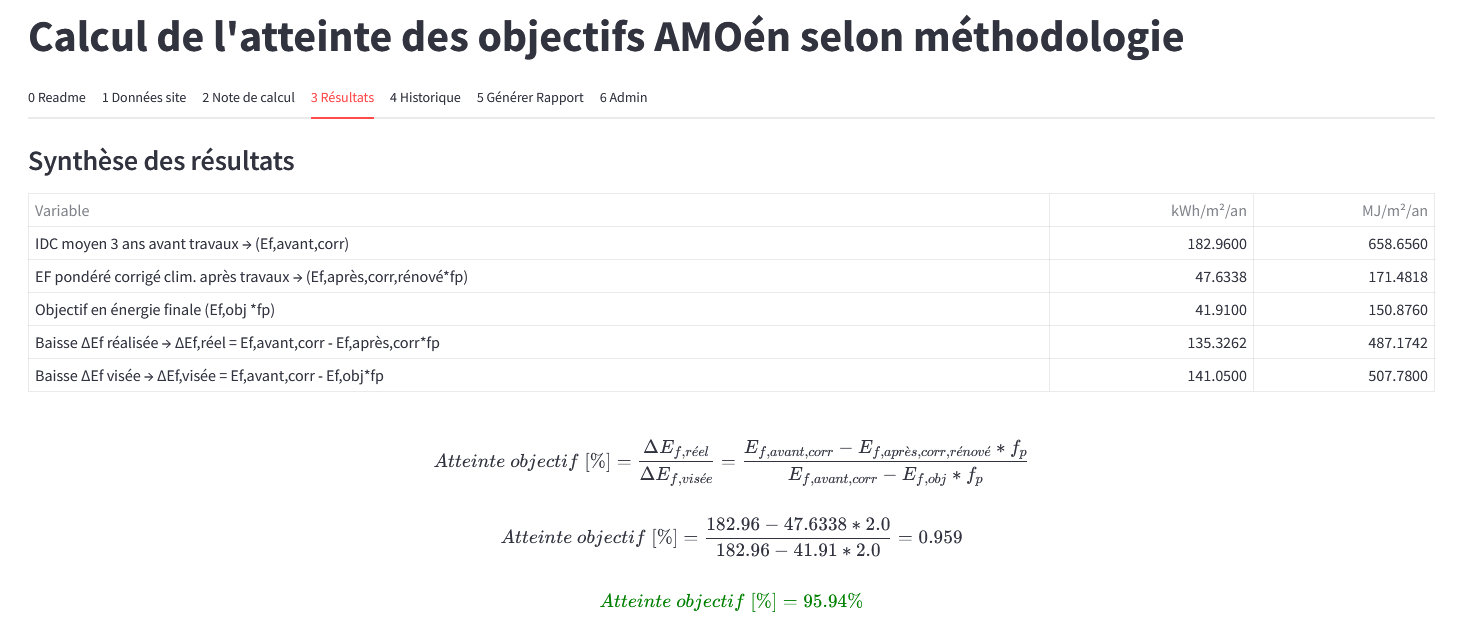
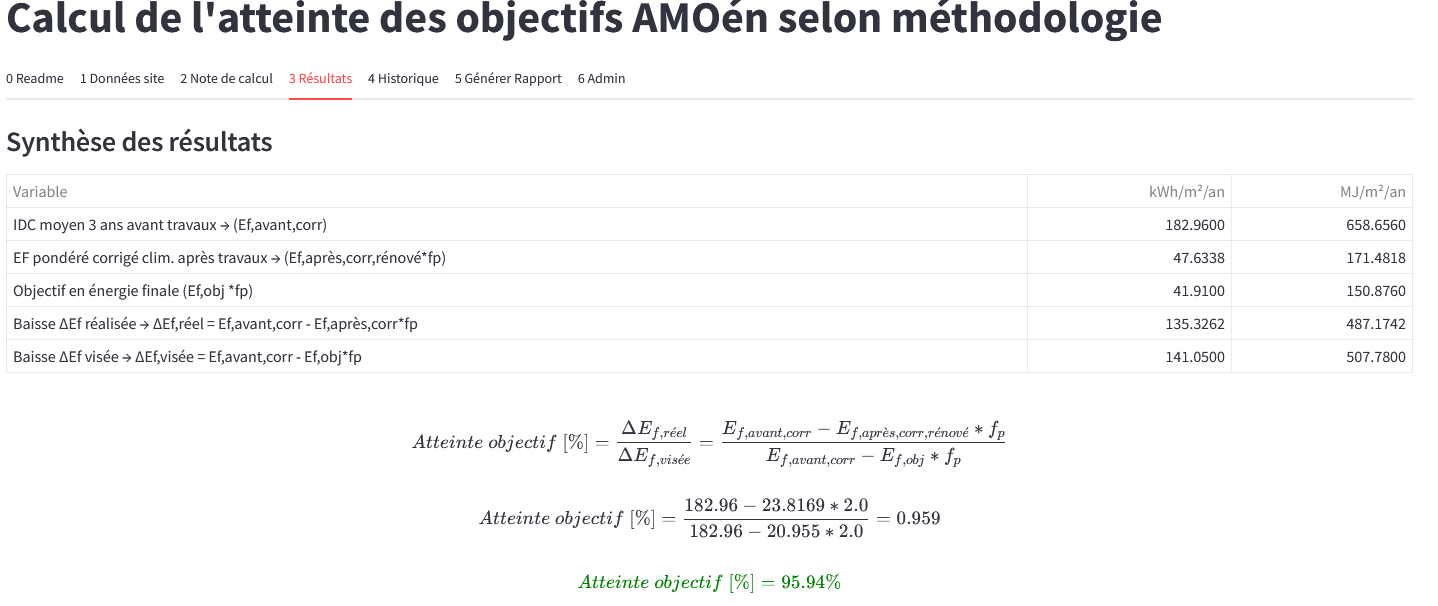
doc update

diff --git a/docs/documentation.md b/docs/documentation.md
@@ -47,25 +47,31 @@ Cet onglet contient:
 
 ### 1 Données du site
 
-Cet onglet contient les informations nécessaires au calcul de l'atteinte de l'objectif. L'image ci-dessous permet d'avoir un aperçu des données à renseigner.
+Cet onglet contient les informations nécessaires au calcul de l'atteinte de l'objectif. 
+
+#### Chargement des données de base du projet
+
+L'image ci-dessous permet d'avoir un aperçu des données à renseigner.
 
 ![Données à renseigner](04_donnees_site1.png)
 
-Dans **Chargement des données de base du projet** on peut sélectionner un projet. Les données de tous les champs sont alors automatiquement renseignées. Par exemple dans l'image ci-dessous, le projet "Avusy 10-10A" a été sélectionné.
+*Sélectionner un projet* permet de voir une liste des projets et d'en sélectionner un. Les données de tous les champs sont alors automatiquement renseignées. Par exemple dans l'image ci-dessous, le projet "Avusy 10-10A" a été sélectionné.
 
 ![Sélectionner un projet -exemple](05_donnees_site2.png)
 
-Les éléments qui ne sont pas renseignées se trouvent dans la section **Elements à renseigner**. Il est nécessaire de les renseigner pour pouvoir continuer.
+#### Elements à renseigner
+
+**Il est nécessaire de renseigner tous les champs dans cette section pour pouvoir continuer.**
 
 ![Elements à renseigner](06_donnes_site3.png)
 
-Comme on peut le voir dans l'image ci-dessus, il est nécessaire de renseigner les données suivantes:
+Comme on peut le voir dans l'image ci-dessus, il faut renseigner les données suivantes:
 
 - Dates de début et fin de la période de calcul
 
 - Affectations (souvent rempli automatiquement)
 
-- Agents énergétiques utilisés
+- Agents énergétiques utilisés et quantités
 
 **Le bouton *Sauvegarder* permet de valider les données renseignées. Sans cela les données renseignées sont perdues.**
 
@@ -85,11 +91,54 @@ Il contient plusieurs sections:
 
 - Données météo station Genève-Cointrin pour la période sélectionnée: données météo utilisées pour le calcul des degrés-jours.
 
-
 ### 3 Résultats
 
 Cet onglet contient les résultats du calcul de l'atteinte de l'objectif.
 
+#### Synthèse des résultats
+
 ![Synthèse des résultats](08_resultats_synthèse.png)
 
 La première section *Synthèse des résultats* indique le pourcentage d'atteinte de l'objectif. Si ce pourcentage est supérieur ou égal à 85%, l'objectif est atteint. Si ce pourcentage est inférieur à 85%, l'objectif n'est pas atteint.
+
+#### Graphiques
+
+La deuxième section *Graphiques* contient le graphique qui résume les résultats du calcul.
+
+![Graphique résultats](09_resultats_graphique.png)
+
+Il est possible de sauvegarder ce graphique en faisant clic sur le bouton droit de la souris et en sélectionnant *Enregistrer l'image sous...*.
+
+### 4 Historique
+
+Cet onglet contient l'historique des résultats obtenus et l'IDC pour le site sélectionné.
+
+#### Plan
+
+Si l'on sélectionne la case *Afficher la carte*, on peut voir le plan de situation du site.
+
+![Plan de situation](10_historique_plan.png)
+
+Cette option est désactivée par défaut pour des raisons de performance.
+
+#### Historique IDC
+
+Cette section contient un historique des IDC pour le site sélectionné.
+
+![Historique IDC](11_historique_idc.gif)
+
+Si l'on coche la case *Afficher les données IDC*, on peut voir les données utilisées pour ce graphique.
+
+#### Historique résultats méthodologie AMOén
+
+Cette section contient un historique de l'atteinte de l'objectif pour le site sélectionné. Les résultats sont classés par date de calcul.
+
+![Historique atteinte objectifs AMOén](12_historique_resultats_amoen.png)
+
+Si l'on coche la case *Afficher les données historiques*, on peut voir les toutes les données utilisées pour le calcul de l'atteinte des objectifs pour chaque période.
+
+### 5 Générer rapport
+
+Cet onglet permet de générer un rapport PDF avec les résultats du calcul de l'atteinte de l'objectif.
+
+![Générer rapport PDF](13_generer_rapport_pdf.png)